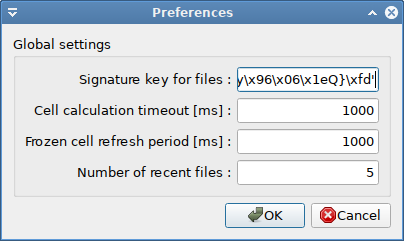
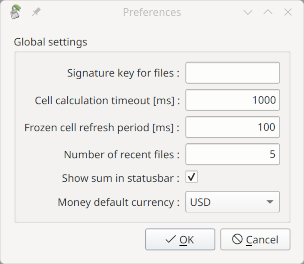
Documentation updated

Changed region(s): [[0.0, 0.0, 1.0, 1.0]]

diff --git a/pyspread/share/doc/manual/basic_concepts.md b/pyspread/share/doc/manual/basic_concepts.md
@@ -119,20 +119,48 @@ may lock up or even crash with a memory error if the grid size is too large.
 
 ## How cells are evaluated
 
-Pyspread differs from traditional spreadsheets in its way to evaluate its cells. The approach is difficult for Python because side-effects must be taken into account. Even though there may be ways to achieve proper dependency tracking in Python, we have not found a way that is sufficiently fast for acceptable spreadsheet usage. Instead, pyspread employs a caching strategy.
+Classically, spreadsheets build a dependency graph in order to determine, which cells must be re-calculated at which time.
+With Python, this approach does not work well.
+Mutable objects such als lists may be altered by code in cells either by cell referencing or via the namespace.
+These changes may affect results of other cells etc.
+Another issue is that building a dependency graph via introspection is very slow in Python.
+Therefore, pyspread differs from traditional spreadsheets in its way to evaluate its cells.
+It computes cells lazily and relies on caching intermediate results in order to achieve fast responses when scolling though the grid.
 
 The following behavior applies to cells that are not frozen:
 
-Pyspread evaluates the macro editor code and the code of all visible cells. Whenever a cell that has not been evaluated before becomes visible, it is evaluated on the fly. Each evaluated cell result is stored in a result cache. When a cell is evaluated again, the cached result is used, and the cell is not re-evaluated. This also applies for cells that are called from other cell codes with code such as `S[1,2,3]`. 
+Pyspread evaluates the macro editor code and the code of all visible cells.
+Whenever a cell that has not been evaluated before becomes visible, it is evaluated on the fly.
+Each evaluated cell result is stored in a result cache.
+When a cell is evaluated again, the cached result is used, and the cell is not re-evaluated.
+This also applies for cells that are called from other cell codes with code such as `S[1,2,3]`.
+
+Note that pyspread's cell calculation approach relies on cells being called via `S[<X> ,<Y> ,<Z>]`.
+Cell results that are accessed via the global namespace are not cached and therefore may slow down grid updates.
 
 The result cache is cleared when
+
   * macro editor changes have been applied or
   * a cell code has been changed.
-Furthermore, certain actions such as `Freeze cell` may empty the cache.
+
+Furthermore, certain actions such as **`Format → Freeze cell`** may empty the cache.
 
 Frozen cells are handled differently:
 
-When a cell is frozen, it is directly evaluated. Its result is not stored inside but outside of the result cache. Macro or cell changes do not lead to a re-evaluation of frozen cells. Instead, the action `Refresh selected cells` updates a frozen cell that is selected. Furthermore when `Toggle periodic updates` is activated, all frozen cells are re-evaluated after a time period that is specified in the preferences dialog.
+When a cell is frozen, it is directly evaluated.
+Its result is stored outside of the result cache in an indivdual cache.
+Macro or cell changes do not lead to a re-evaluation of frozen cells.
+
+Their results are stored in an indivdual cache that is updated only if
+
+ * the cell is unfrozen
+ * it is selected and **`View → Refresh selected cells <F5>`** is activated or
+ * **`View → Toggle periodic updates`** is activated and the update occurs. This happens periodically after a time period that is specified in the preferences dialog.
+
+This behavior allows minimizing the number of executions of slow tasks. Furthermore, it allows cyclic updates e.g. for retrieving data from Web services.
+
+Button cells acts similar to frozen cells. However, they are activated by clicking on them.
+
 
 ## Everything is accessible
 

diff --git a/pyspread/share/doc/manual/advanced_topics.md b/pyspread/share/doc/manual/advanced_topics.md
@@ -53,23 +53,22 @@ Decimal('3.2')  # 3.2
 For arbitrary precision, you may want to try out the [mpmath module](https://pypi.org/project/mpmath/), which
 provides the pretty attribute for human friendly representation.
 
-If you are working with currencies, you may be interested in the [Python Money Class](https://pypi.org/project/money/).
-Putting their currency presets approach, which is stated on their project page, into the macro editor works well for me:
+If you are working with currencies, you may be interested in the **`Macro → Money`** action that requires the optional dependency [`py-moneyed`](https://pypi.org/project/py-moneyed/).
 
-```
-class EUR(Money):
-    def __init__(self, amount='0'):
-        super().__init__(amount=amount, currency='EUR')
-```
+## Deep calls
 
+Python's stack limits depth of calls. Therefore counting cells up by adding 1 to the cell result above is not recommended. Use the magic variable `X` instead.
 
 ## Cyclic references
 
 Cyclic references are possible in pyspread. However, recursion depth is limited. Pyspread shows an error when the maximum recursion depth is exceeded. It is strongly advisable to only use cyclic references when either a frozen or a button cell interrupts the cycle. Otherwise, cyclic calculations may lock up pyspread.
 
-## Result stability
+## Result stability in old Python versions (<=3.5)
 
-Result stability is not guaranteed when redefining global variables because execution order may be changed. This happens for when in large spreadsheets the result cache is full and cell results that are purged from the cache are re-evaluated.
+In old Python versions (<=3.5), result stability is not guaranteed because execution order may be changed. This results from the order of dict elements not being guaranteed.
+This happens for when in large spreadsheets the result cache is full and cell results that are purged from the cache are re-evaluated.
+This may be an issue when redefining global variables, which is therefore discouraged.
+Note that for Python 3.7+, dict order stability is a language feature and therefore result stability is guaranteed.
 
 ## Security annoyance when approving files in read only folders
 

diff --git a/pyspread/share/doc/manual/edit_menu.md b/pyspread/share/doc/manual/edit_menu.md
@@ -71,6 +71,24 @@ Quotation is not done if:
 
 ----------
 
+## Edit → Shift selection down
+
+Shifts the selected cells down. Cells below the selection are shifted down with the selection. Cells with content that go beyond the grid are deleted after a warning dialog. The step can be undone. It equals a cut and paste operation of the selected cells and the cells below. Formatting of cells is not affected, i.e. cell formatting is not shifted with the cells.
+
+## Edit → Shift selection right
+
+Shifts the selected cells right. Cells right of the selection are shifted down with the selection. Cells with content that go beyond the grid are deleted after a warning dialog. The step can be undone. It equals a cut and paste operation of the selected cells and the cells right. Formatting of cells is not affected, i.e. cell formatting is not shifted with the cells.
+
+## Edit → Delete and shift cells up
+
+Deletes the selected cells and shifts cells that are below the selection up. The step can be undone. It equals a cut and paste operation of the cells below the selection. Formatting of cells is not affected, i.e. cell formatting is not shifted with the cells.
+
+## Edit → Delete and shift cells left
+
+Deletes the selected cells and shifts cells that are right of the selection left. The step can be undone. It equals a cut and paste operation of the cells right of the selection. Formatting of cells is not affected, i.e. cell formatting is not shifted with the cells.
+
+----------
+
 ## Edit → Insert rows
 
 Inserts one row directly above the cursor if no selections are made. If selections are present, then the bounding box that covers all selected cells is calculated, and the number of rows of this bounding box is inserted above the bounding box.

diff --git a/pyspread/share/doc/manual/file_menu.md b/pyspread/share/doc/manual/file_menu.md
@@ -131,9 +131,11 @@ After pressing o.k., a second dialog window displays the print preview.
 The preferences dialog allows changing:
 
 - **Signature key for files**: The private key that is used for signing the `.pys` and `.pysu` files
-- **Cell calculation timeout**: If calculations for a cell exceed the time in seconds given here then calculation is aborted. This does not work for Python functions that are C code, so e.g. `2**99999999999999999` is not aborted.
+- **Cell calculation timeout**: If calculations for a cell exceed the time in seconds given here then calculation is aborted. This does not work for Python functions that are C code, so e.g. `2**99999999999999999` would not be not aborted if Python's internal safeguard was deactivated.
 - **Frozen cell refresh period**: If **`View → Toggle`** periodic updates is activated then all frozen cells are updated after a specified amount of time. This interval in milliseconds is set here. The change takes effect the next time that **`View → Toggle`** periodic updates is activated. Too small values may lock up the application.
 - **Number of recent files**: The maximum number of files that is displayed in the list of recent files. Changes come into effect after the next restart of *pyspread*.
+- **Show sum in statusbar**: If checked, the sum of the currently selected cells is shown in the statusbar. This may slow down pyspread for large grids.
+- **Money default currency**: The selected currence is used for converting cells to Money objects with **`Macro → Money`**.
 
 ![Preferences dialog 2](images/screenshot_preferences_dialog.png)
 

diff --git a/pyspread/share/doc/manual/macro_menu.md b/pyspread/share/doc/manual/macro_menu.md
@@ -35,3 +35,33 @@ Starting from version 2.2, there is a second toolbar with [R](https://www.r-proj
 With the upcoming Python 3 version of *pyspread* (i.e. v. 1.99.0+), the chart dialog has been completely rewritten.
 
 For easier transition from previous versions of *pyspread*, the special class `charts.ChartFigure` is provided. This class subclasses the matplotlib Figure class. The subclass takes matplotlib arguments and creates a figure in one step. It is recommended to replace code that uses this class.
+
+----------
+
+## Macro → Quote
+
+Puts quotation marks around the cell code. This makes the cell content of each selected cell interpreted as a string.
+
+## Macro → Money (requires py-moneyed)
+
+Converts the content of the selected cells cell into a `Money` object. This requires the optional dependency `py-moneyed`. Currency follows the Money default currency that can be set in **`File → Preferences`**.
+
+## Macro → Datetime
+
+Converts the content of the selected cells cell into a `datetime` object.
+
+## Macro → Date
+
+Converts the content of the selected cells cell into a `date` object.
+
+## Macro → Time
+
+Converts the content of the selected cells cell into a `time` object.
+
+----------
+
+## Macro → Insert sum
+
+Inserts code into the cell below the bottom left cell of currently selected cells that sums up the content of the seleted cells.
+
+Note that for summation, `numpy.sum` is employed so that e.g. string objects cannot be concatenated this way.

diff --git a/pyspread/share/doc/manual/format_menu.md b/pyspread/share/doc/manual/format_menu.md
@@ -17,6 +17,14 @@ Pastes copied cell formats.
 
 ----------
 
+## Format → Default format
+
+Assigns the default format to the selected cells. This does not affect the merge status of cells, i.e. merged cells do not become unmerged. Default cell formatting enables system theme colors for the cell, which lets the cell adapt to system themes (e.g. light or dark theme).
+
+Note that default format is just another format so that applying default format to a cell does not delete or alter formatting layers below. Therefore, the complexity of `cell_attributes` is not reduced.
+
+----------
+
 ## Format → Font
 Assigns a font including style and size to the current cell if no selection is present. If a selection is present, the  font is assigned to each selected cell.
 
